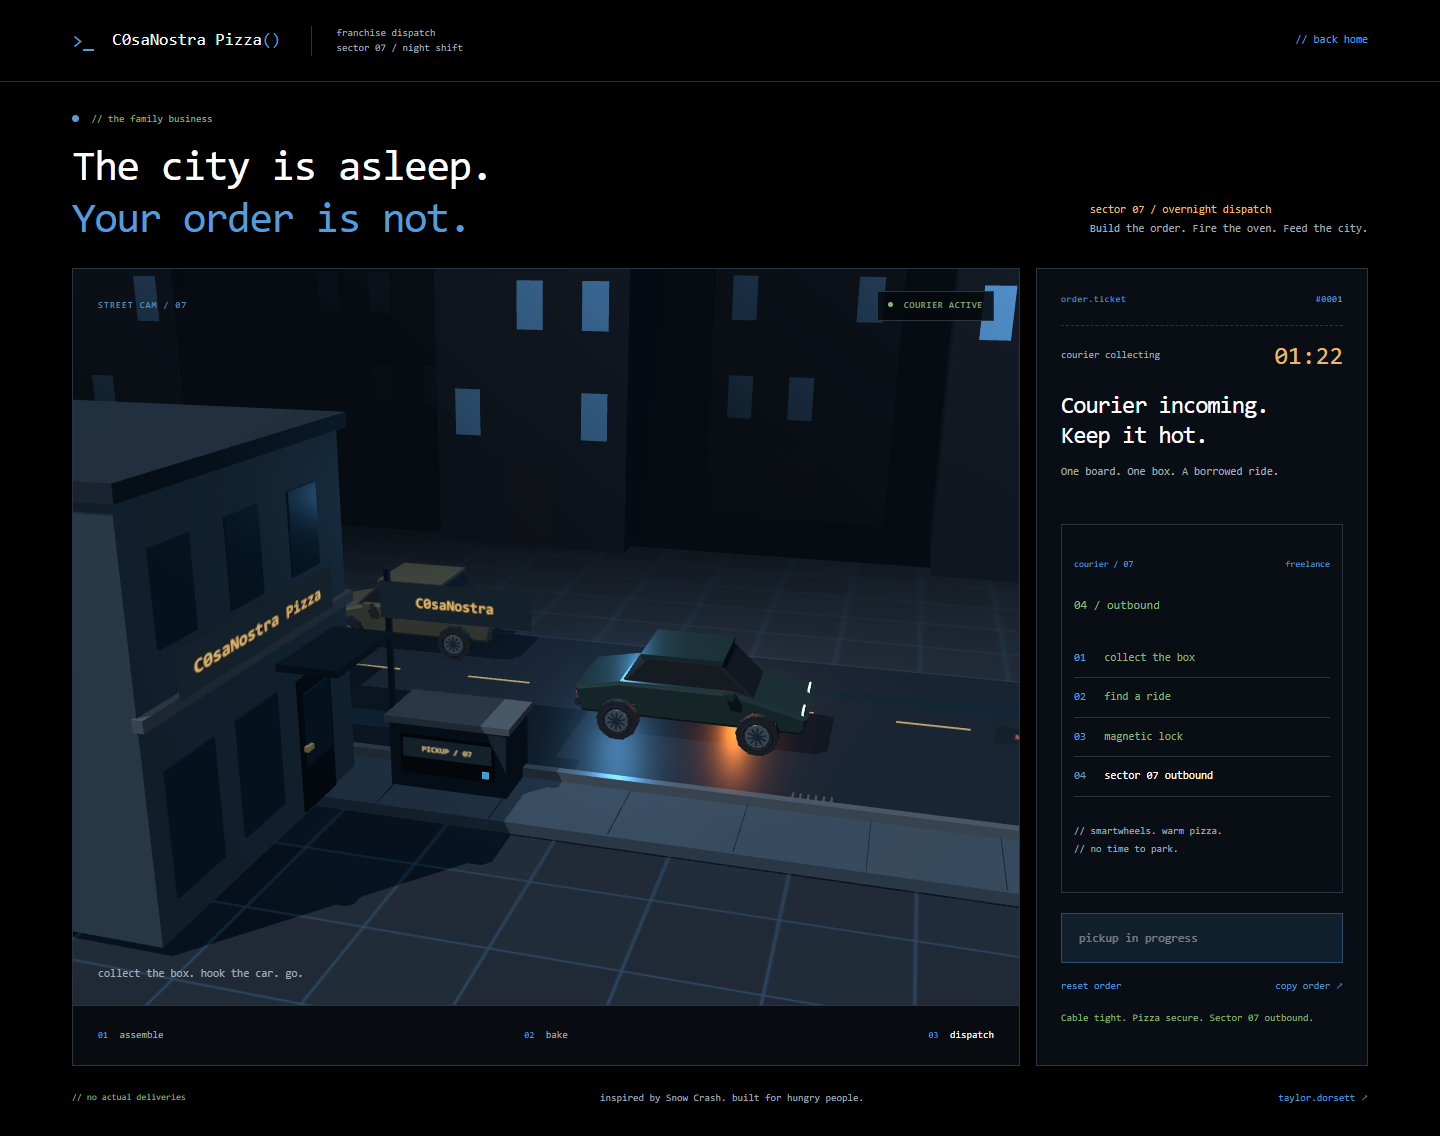
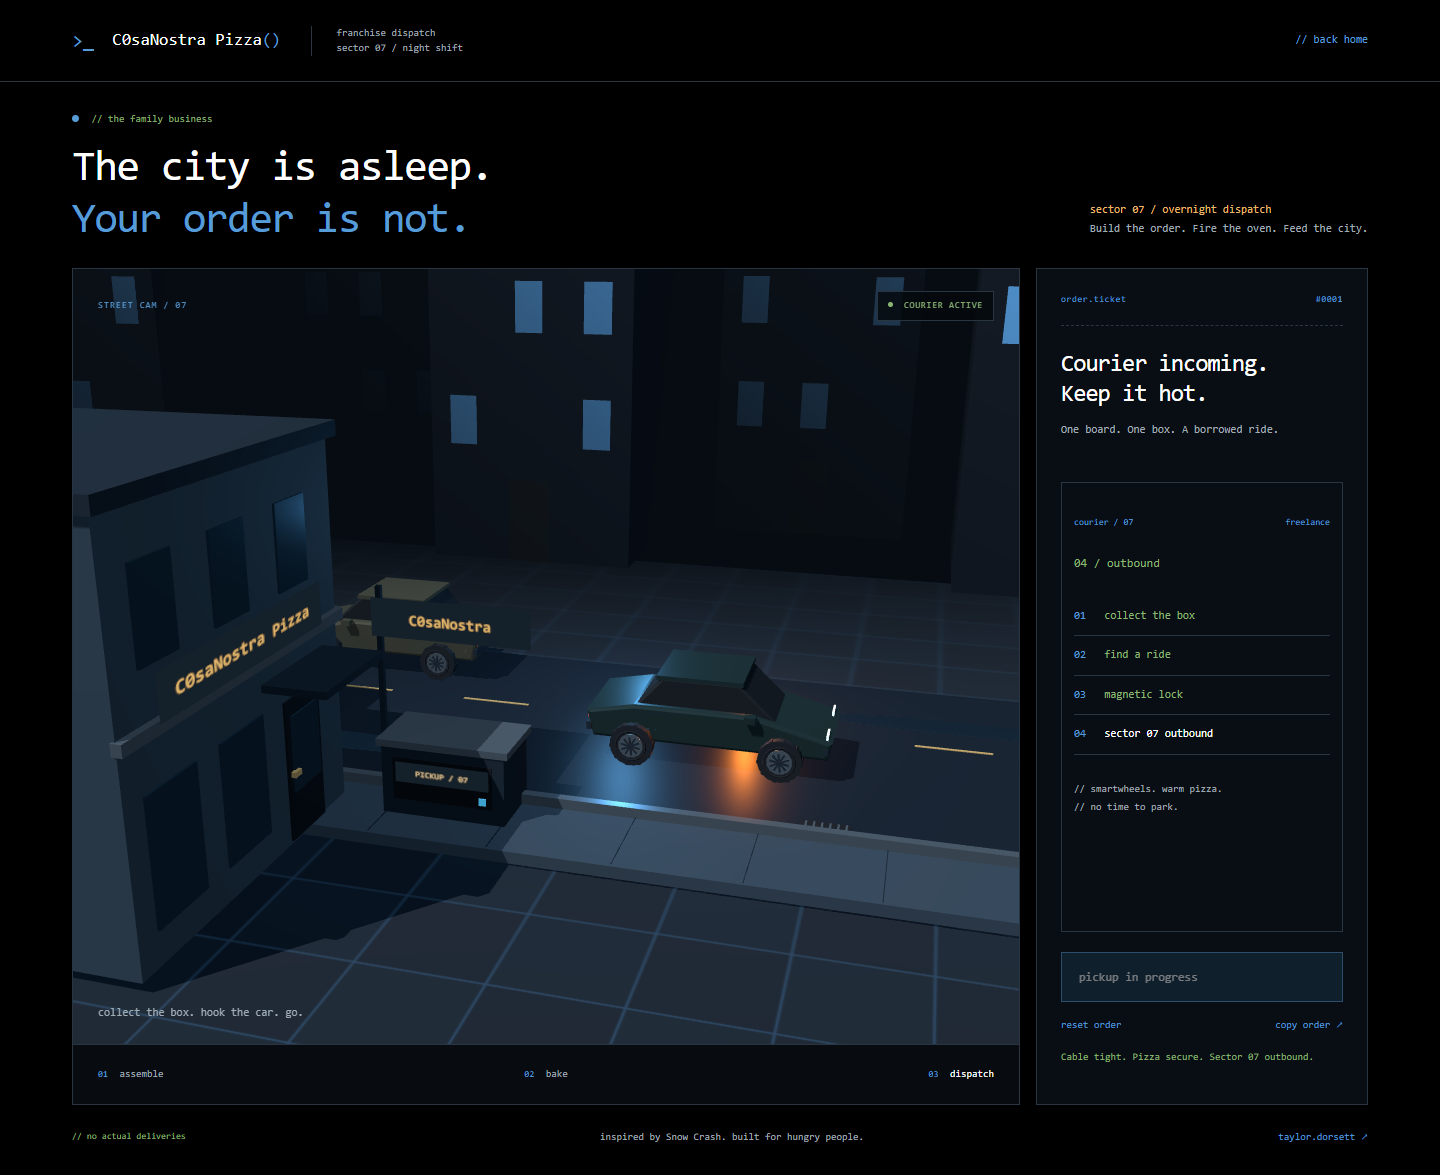
remove the pickup timer

diff --git a/browser-check.js b/browser-check.js
@@ -17,7 +17,6 @@ try {
   const baseUrl = process.env.TEST_BASE_URL ?? 'http://127.0.0.1:5177';
   await page.goto(baseUrl);
   await page.waitForSelector('canvas');
-  assert.equal(await page.locator('#pickup-clock').textContent(), '01:30');
   const canvas = await page.locator('canvas').boundingBox();
   await page.mouse.click(canvas.x + canvas.width * 0.47, canvas.y + canvas.height * 0.55);
   assert.equal(await page.locator('body').getAttribute('data-toppings'), '1');
@@ -42,11 +41,8 @@ try {
   await page.locator('#primary').click();
   await page.waitForTimeout(8500);
   await expect(page.locator('body')).toHaveAttribute('data-mode', 'baked');
-  await expect(page.locator('#clock-label')).toHaveText('ready for pickup');
-  const stoppedClock = await page.locator('#pickup-clock').textContent();
   await page.locator('#primary').click();
   await page.waitForTimeout(500);
-  assert.equal(await page.locator('#pickup-clock').textContent(), stoppedClock);
   assert.equal(await page.locator('body').getAttribute('data-mode'), 'sliced');
   await page.screenshot({ path: 'screenshots/baked.png', fullPage: true });
   await page.locator('#dispatch').click();
@@ -66,7 +62,6 @@ try {
   await page.locator('#reset').click();
   assert.equal(await page.locator('body').getAttribute('data-toppings'), '0');
   await page.waitForTimeout(100);
-  assert.equal(await page.locator('#pickup-clock').textContent(), '01:30');
   await page.setViewportSize({ width: 390, height: 844 });
   await page.locator('#special').click();
   await page.waitForTimeout(1200);
@@ -79,18 +74,15 @@ try {
   assert.equal(await page.locator('body').getAttribute('data-toppings'), '0');
   assert.deepEqual(errors, []);
   await page.close();
-  const timerPage = await checkedPage();
-  await timerPage.clock.install({ time: new Date('2026-01-01T00:00:00Z') });
-  await timerPage.clock.pauseAt(new Date('2026-01-01T00:00:01Z'));
-  await timerPage.goto(baseUrl);
-  await timerPage.locator('#special').click();
-  await timerPage.clock.fastForward(91000);
-  assert.equal(await timerPage.locator('#pickup-clock').textContent(), '00:00');
-  assert.equal(await timerPage.locator('#clock-label').textContent(), 'courier waiting');
-  await timerPage.locator('#primary').click();
-  await timerPage.clock.fastForward(9000);
-  assert.equal(await timerPage.locator('body').getAttribute('data-mode'), 'baked');
-  await timerPage.close();
+  const untimed = await checkedPage();
+  await untimed.clock.install({ time: new Date('2026-01-01T00:00:00Z') });
+  await untimed.clock.pauseAt(new Date('2026-01-01T00:00:01Z'));
+  await untimed.goto(baseUrl);
+  await untimed.locator('#special').click();
+  await untimed.clock.fastForward(600000);
+  assert.equal(await untimed.locator('body').getAttribute('data-mode'), 'prep');
+  assert.equal(await untimed.locator('[id*="clock"], [role="timer"]').count(), 0);
+  await untimed.close();
   const reduced = await checkedPage({
     reducedMotion: 'reduce',
     viewport: { width: 390, height: 844 }
@@ -258,5 +250,5 @@ try {
   await browser.close();
 }
 console.log(
-  'desktop, mobile, share, bake, slice, undo, reset, pickup clock, courier, interrupted pickup, reduced motion, gpu memory and recipe loading passed'
+  'desktop, mobile, share, bake, slice, undo, reset, untimed preparation, courier, interrupted pickup, reduced motion, gpu memory and recipe loading passed'
 );

diff --git a/order.js b/order.js
@@ -1,11 +1,6 @@
 import { createCourier } from './courier.js';
 import { maxToppings, decodeRecipe, randomSpot } from './recipe.js';
-import {
-  updateClock as renderClock,
-  updateOrderView,
-  updateCourierPhase,
-  say
-} from './order-view.js';
+import { updateOrderView, updateCourierPhase, say } from './order-view.js';
 import { bindPizzaInput } from './pizza-input.js';
 import { bindSharing } from './sharing.js';
 const $ = (id) => document.getElementById(id);
@@ -32,14 +27,8 @@ export function startOrder({ host, scene, camera, renderer, fireLight, frameCame
     sliceTarget = 0;
   let rotationTarget = 0;
   const bakeSeconds = 8;
-  let pickupStarted = null,
-    pickupFinished = null;
-  function updateClock(now) {
-    renderClock({ now, pickupStarted, pickupFinished, mode });
-  }
   function update() {
     updateOrderView({ mode, toppingCount: toppings.length });
-    updateClock(performance.now());
   }
   function dispatch() {
     if (!['baked', 'sliced', 'dispatched'].includes(mode)) return;
@@ -57,7 +46,6 @@ export function startOrder({ host, scene, camera, renderer, fireLight, frameCame
   $('replay').addEventListener('click', dispatch);
   function addTopping(type, x, z, angle = Math.random() * Math.PI * 2, animate = true) {
     if (mode !== 'prep' || toppings.length >= maxToppings) return;
-    if (pickupStarted === null) pickupStarted = performance.now();
     const group = makeTopping(type);
     const parent = slices[sliceIndex(x, z)];
     parent.add(group);
@@ -82,8 +70,6 @@ export function startOrder({ host, scene, camera, renderer, fireLight, frameCame
   function clearOrder() {
     restoreKitchen();
     removeAll();
-    pickupStarted = null;
-    pickupFinished = null;
     mode = 'prep';
     carriage.position.set(0, 0, 0);
     carriage.scale.setScalar(1);
@@ -103,10 +89,9 @@ export function startOrder({ host, scene, camera, renderer, fireLight, frameCame
     if (mode !== 'prep') return;
     mode = 'baking';
     bakingStarted = performance.now();
-    if (pickupStarted === null) pickupStarted = bakingStarted;
     $('progress').value = 0;
     update();
-    say('Into the oven. Give it eight seconds.');
+    say('Into the oven. Watch the cheese melt.');
   }
   document.querySelectorAll('[data-topping]').forEach((button) =>
     button.addEventListener('click', () => {
@@ -206,13 +191,12 @@ export function startOrder({ host, scene, camera, renderer, fireLight, frameCame
     clearOrder();
     for (const [type, x, z, angle] of recipe.t) addTopping(type, x, z, angle, false);
     update();
-    say('Order received. Fresh pickup window. Ready to bake.');
+    say('Recipe loaded. Make it yours.');
   }
   window.addEventListener('hashchange', openRecipe);
   function animate(now) {
     const dt = Math.min((now - lastTime) / 1000, 0.04);
     lastTime = now;
-    updateClock(now);
     if (mode === 'pickup') {
       const delivery = courier.frame((now - courierStarted) / 1000, reduceMotion);
       if (delivery.phase !== courierPhase) {
@@ -249,7 +233,6 @@ export function startOrder({ host, scene, camera, renderer, fireLight, frameCame
       fireLight.intensity = 18;
       if (t === 1) {
         mode = 'baked';
-        pickupFinished = now;
         carriage.position.set(0, 0, 0);
         carriage.scale.setScalar(1);
         update();

diff --git a/order-view.js b/order-view.js
@@ -1,25 +1,6 @@
 import { maxToppings } from './recipe.js';
 const $ = (id) => document.getElementById(id);
 export const say = (text) => ($('status').textContent = text);
-export function updateClock({ now, pickupStarted, pickupFinished, mode }) {
-  const elapsed = pickupStarted === null ? 0 : ((pickupFinished ?? now) - pickupStarted) / 1000;
-  const remaining = Math.max(0, 90 - Math.floor(elapsed));
-  $('pickup-clock').textContent =
-    String(Math.floor(remaining / 60)).padStart(2, '0') +
-    ':' +
-    String(remaining % 60).padStart(2, '0');
-  $('dispatch-clock').classList.toggle('expired', remaining === 0);
-  $('clock-label').textContent =
-    pickupFinished !== null
-      ? 'ready for pickup'
-      : remaining === 0
-        ? 'courier waiting'
-        : pickupStarted === null
-          ? 'pickup window'
-          : 'pickup in';
-  if (mode === 'pickup' || mode === 'dispatched')
-    $('clock-label').textContent = mode === 'pickup' ? 'courier collecting' : 'order dispatched';
-}
 export function updateOrderView({ mode, toppingCount }) {
   document.body.dataset.mode = mode;
   document.body.dataset.toppings = toppingCount;
@@ -51,9 +32,9 @@ export function updateOrderView({ mode, toppingCount }) {
         : 'Order complete.<br>Ready for pickup.';
   $('panel-copy').innerHTML =
     mode === 'prep'
-      ? 'Base loaded: sauce + mozzarella.<br>Add toppings to start the pickup clock.'
+      ? 'Base loaded: sauce + mozzarella.<br>Take your time. Add what you like.'
       : mode === 'baking'
-        ? 'Eight seconds. Watch the crust.'
+        ? 'Watch the cheese melt and the crust turn golden.'
         : 'Inspect a slice. Quality control is your job.';
   $('scene-label').textContent =
     mode === 'baking'

diff --git a/index.html b/index.html
@@ -63,13 +63,9 @@
         </section>
         <aside class="recipe-panel">
           <div class="ticket-top"><span>order.ticket</span><span>#0001</span></div>
-          <div class="dispatch-clock" id="dispatch-clock">
-            <span id="clock-label">pickup window</span
-            ><output id="pickup-clock" aria-label="Pickup window remaining">01:30</output>
-          </div>
           <h2 id="panel-title">Incoming order.<br />Make it yours.</h2>
           <p class="panel-copy" id="panel-copy">
-            Base loaded: sauce + mozzarella.<br />Add toppings to start the pickup clock.
+            Base loaded: sauce + mozzarella.<br />Take your time. Add what you like.
           </p>
           <div id="prep-controls">
             <div class="section-label">
@@ -162,7 +158,7 @@
       </form>
       <p class="eyebrow">// outgoing transmission</p>
       <h2>Transmit this order.</h2>
-      <p>This link saves the toppings. Whoever opens it gets a fresh pickup window.</p>
+      <p>This link saves the toppings. Open it to make the same pizza.</p>
       <label for="share-url">Recipe link</label><input id="share-url" readonly /><button
         id="copy-link"
         class="primary"

diff --git a/dispatch.css b/dispatch.css
@@ -121,22 +121,6 @@ h2 {
   color: var(--red);
   letter-spacing: 0.5px;
 }
-.dispatch-clock {
-  display: flex;
-  align-items: center;
-  justify-content: space-between;
-  margin-top: 17px;
-  color: var(--muted);
-  font-size: 10px;
-}
-.dispatch-clock output {
-  color: #e8b96c;
-  font-size: 25px;
-  line-height: 1;
-}
-.dispatch-clock.expired output {
-  color: #ff907f;
-}
 .panel-copy {
   font-size: 11px;
 }

diff --git a/README.md b/README.md
@@ -14,7 +14,7 @@ pick a topping and tap the cheese. drag sideways to turn it, or use the arrow bu
 
 share saves the toppings in the link. no account or database.
 
-the pickup clock starts when you add toppings or bake a plain cheese pizza. you get 90 seconds. it stops when baking finishes. if it runs out, the courier waits. you can still finish the order.
+there is no timer or score. take your time making a pizza, watch it bake and call the courier when you want.
 
 ## run it
 
@@ -60,7 +60,7 @@ npm run test:browser
 | `kitchen.js`     | oven, pizza, toppings and cooked appearance                 |
 | `courier.js`     | street, courier, traffic and pickup animation               |
 | `order.js`       | order state, transitions, controls and frame loop           |
-| `order-view.js`  | ticket text, buttons, clock and delivery steps              |
+| `order-view.js`  | ticket text, buttons and delivery steps                     |
 | `pizza-input.js` | pointer capture, turning and topping placement              |
 | `sharing.js`     | share dialog and clipboard fallback                         |
 | `recipe.js`      | recipe encoding and validation without browser dependencies |
